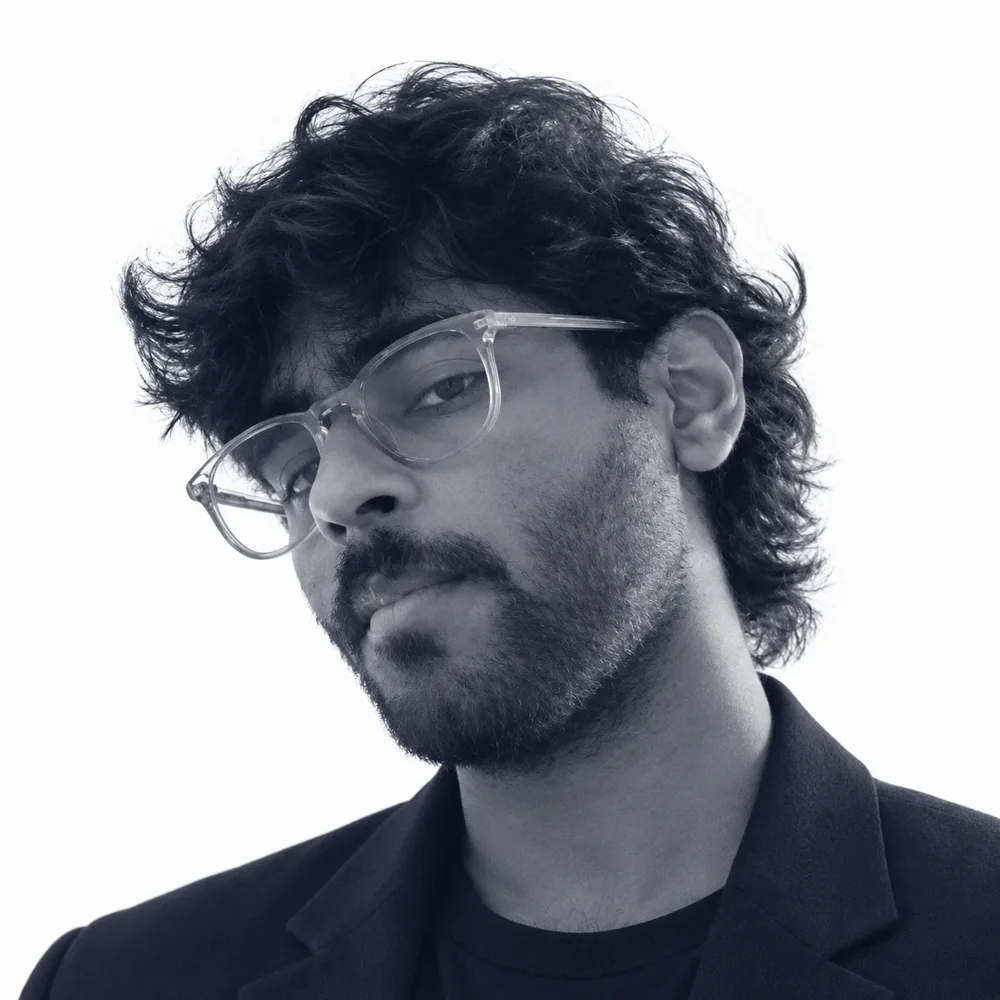
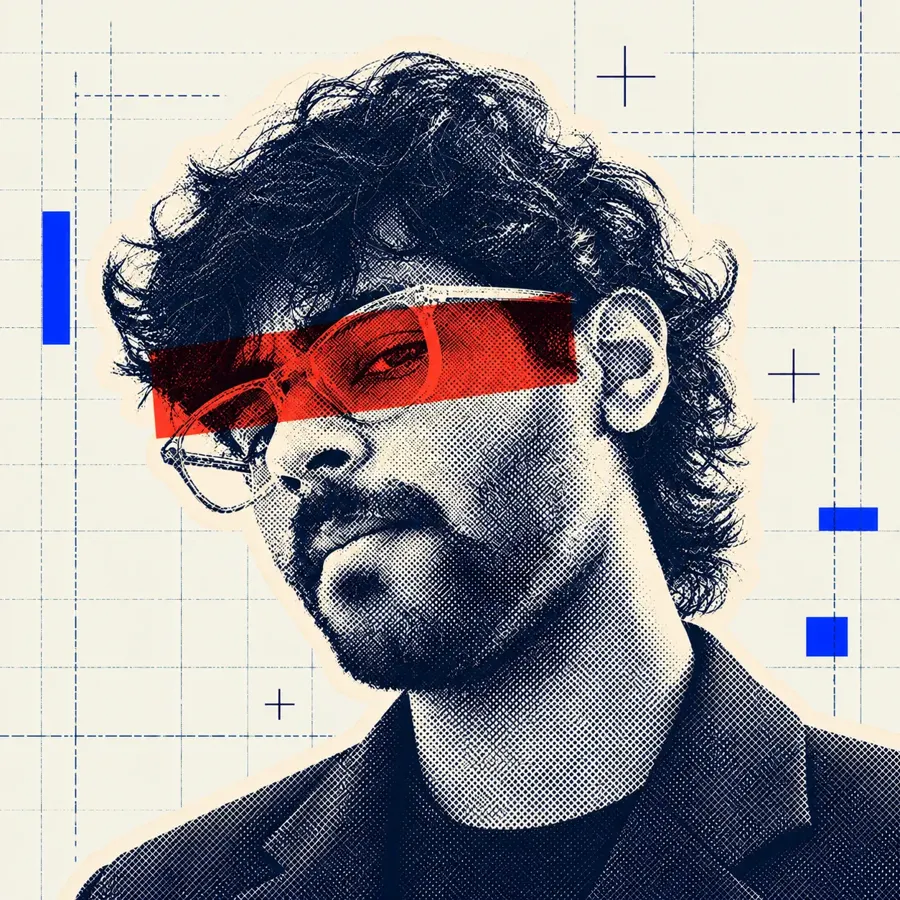
Use halftone artwork portrait and drop hero photo filters

diff --git a/src/components/Hero.tsx b/src/components/Hero.tsx
@@ -61,10 +61,9 @@ export default function Hero() {
                 fill
                 priority
                 sizes="(max-width: 1024px) 70vw, 30vw"
-                className="object-cover grayscale contrast-110"
+                className="object-cover"
               />
             </motion.div>
-            <div className="absolute inset-0 bg-blue mix-blend-screen opacity-25" aria-hidden />
           </div>
           <p className="label absolute -left-3 top-6 -rotate-3 bg-paper px-3 py-2 shadow-sm md:-left-10">Based in {site.location}</p>
           <p className="label absolute -right-2 bottom-24 rotate-2 bg-blue px-3 py-2 text-light">{site.availability}</p>
